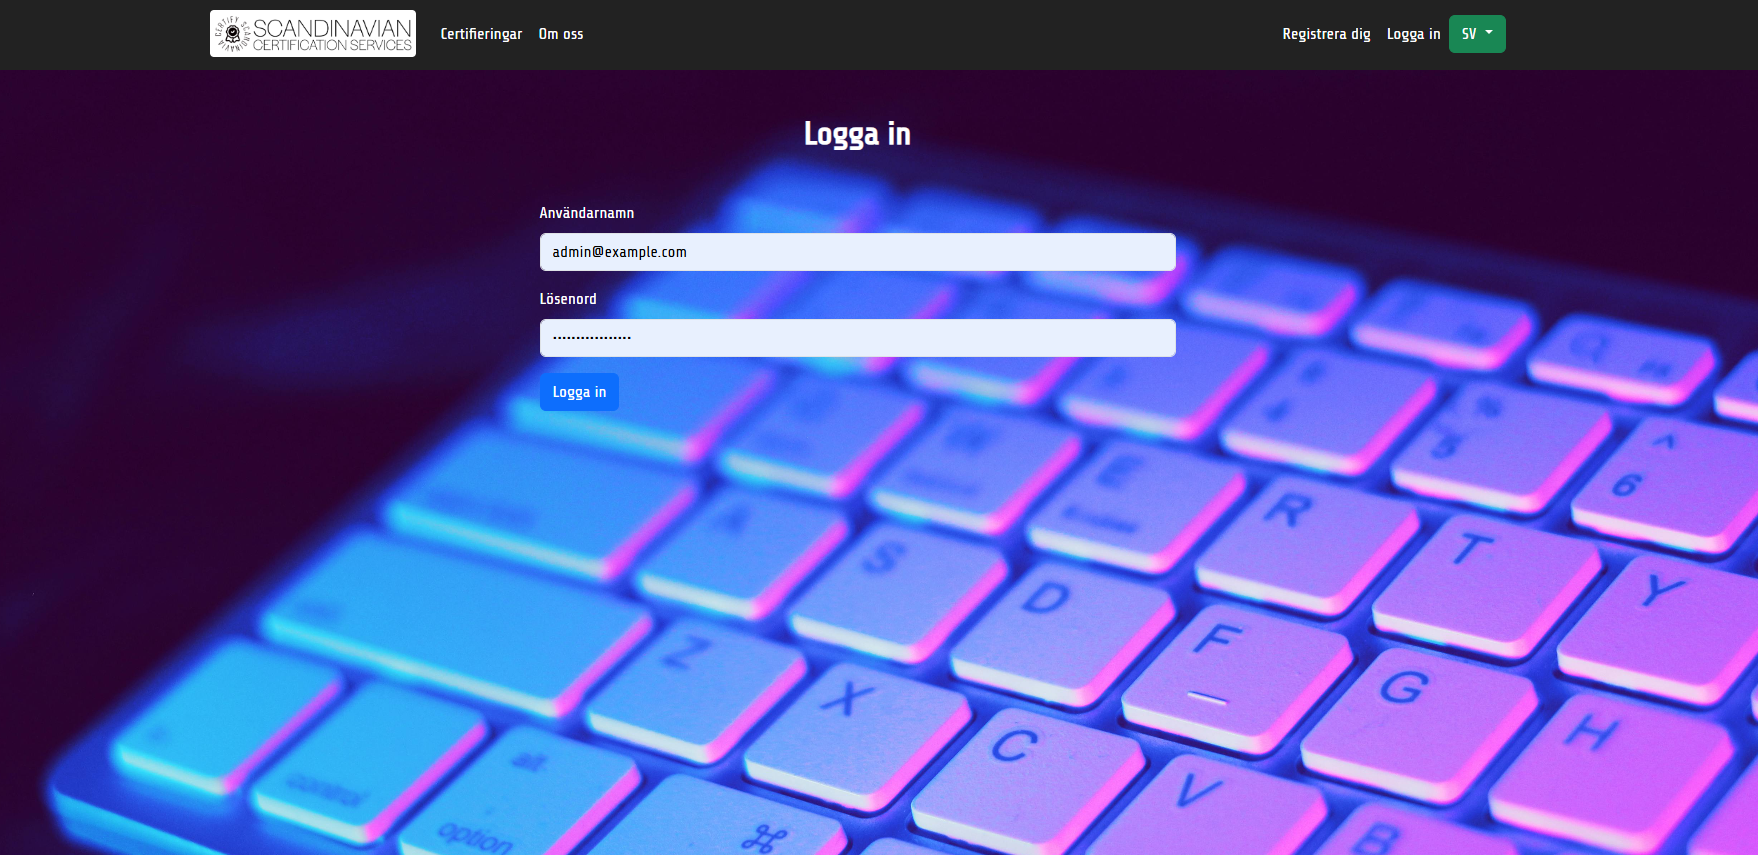
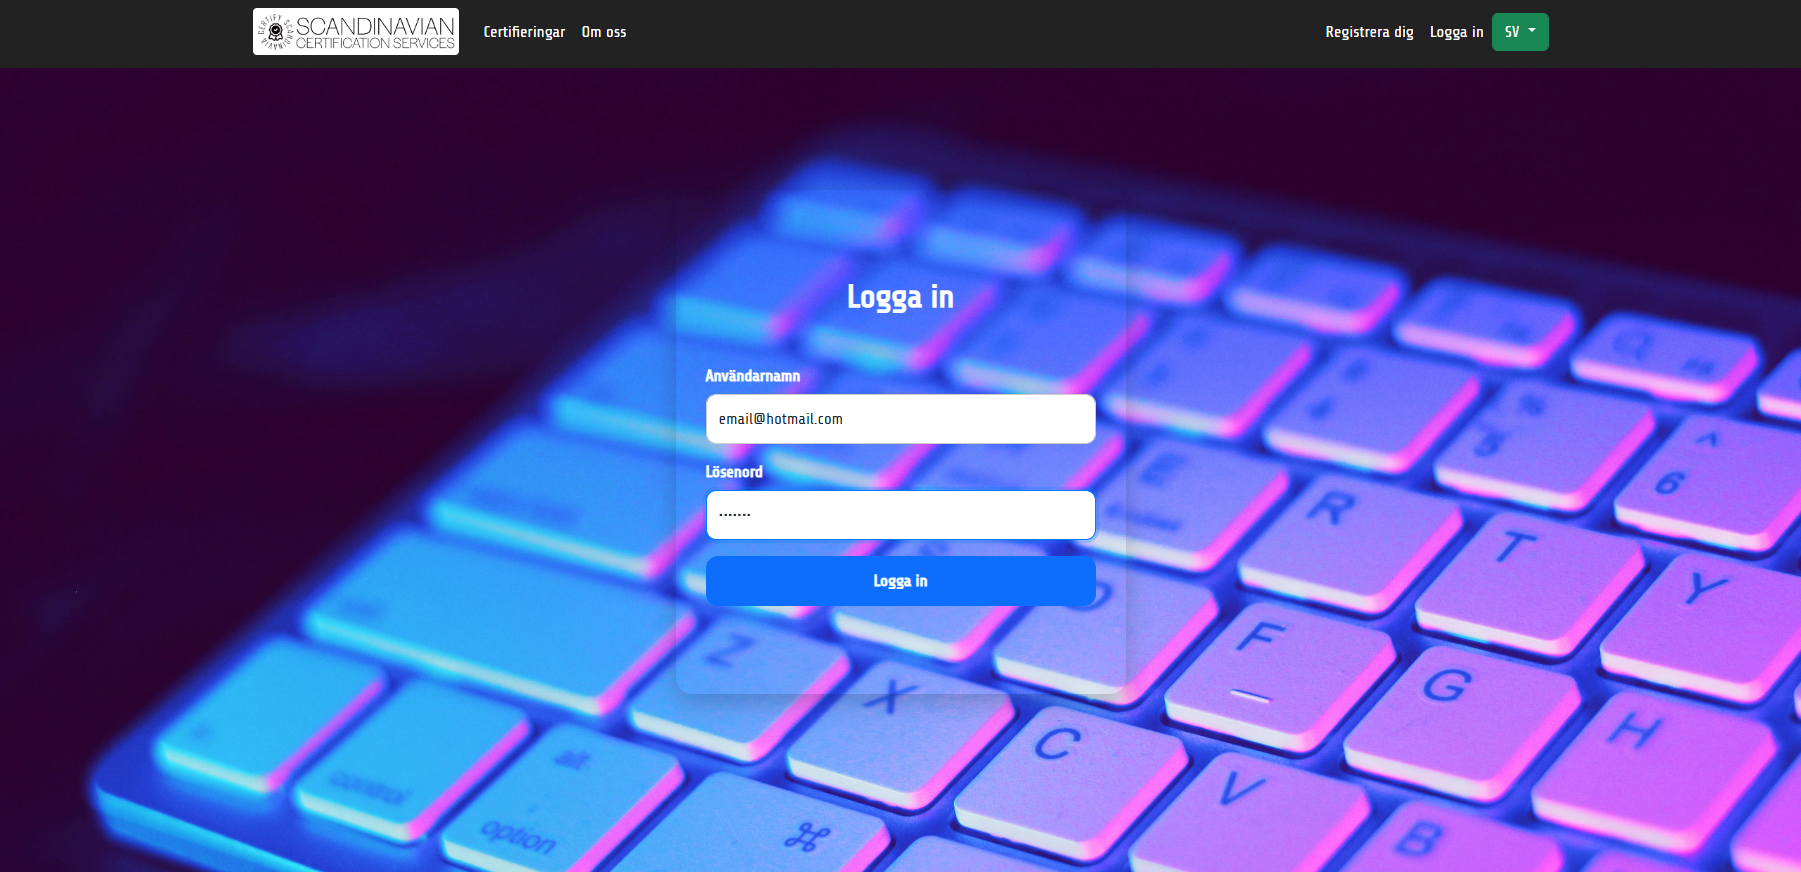
Updated Readme file of project

diff --git a/README.md b/README.md
@@ -6,13 +6,13 @@ I am currently developing a full-stack online booking platform tailored for IT c
 
 Here are some screenshots of the project:
 
-![Booking page](./Project_images/booking_page.png)
+![Booking page](./Project_images/Bookingpage.png)
 
-![Admin panel](./Project_images/Image_of_project2.png)
+![Login page](./Project_images/Login_page.png)
 
-![Login page](./Project_images/login_page.png)
+![Info page](./Project_images/Info_sida.png)
 
-![Info page](./Project_images/Info_page.png)
+![Signup page](./Project_images/Signup_page.png)
 
 ---
 
